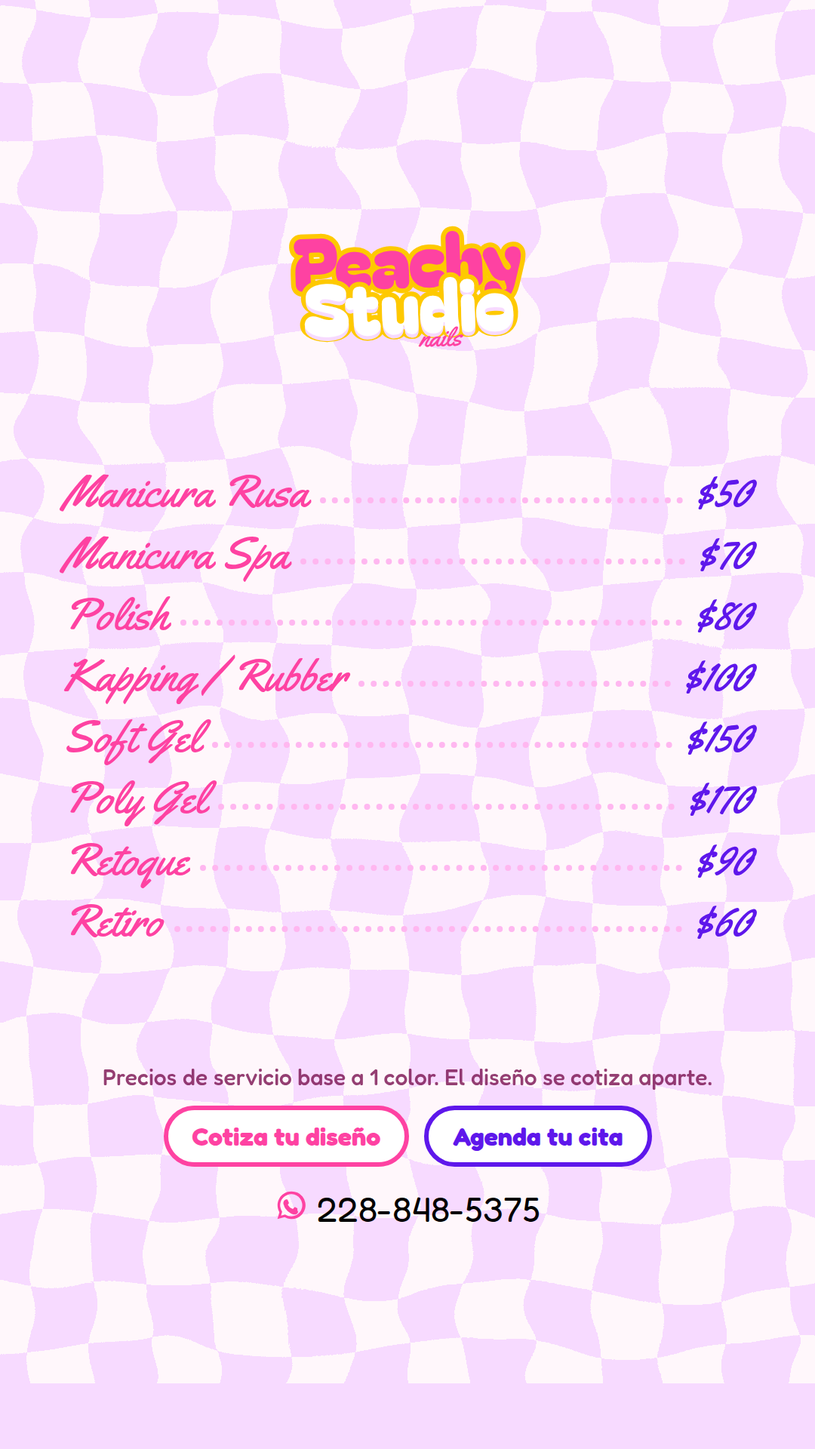
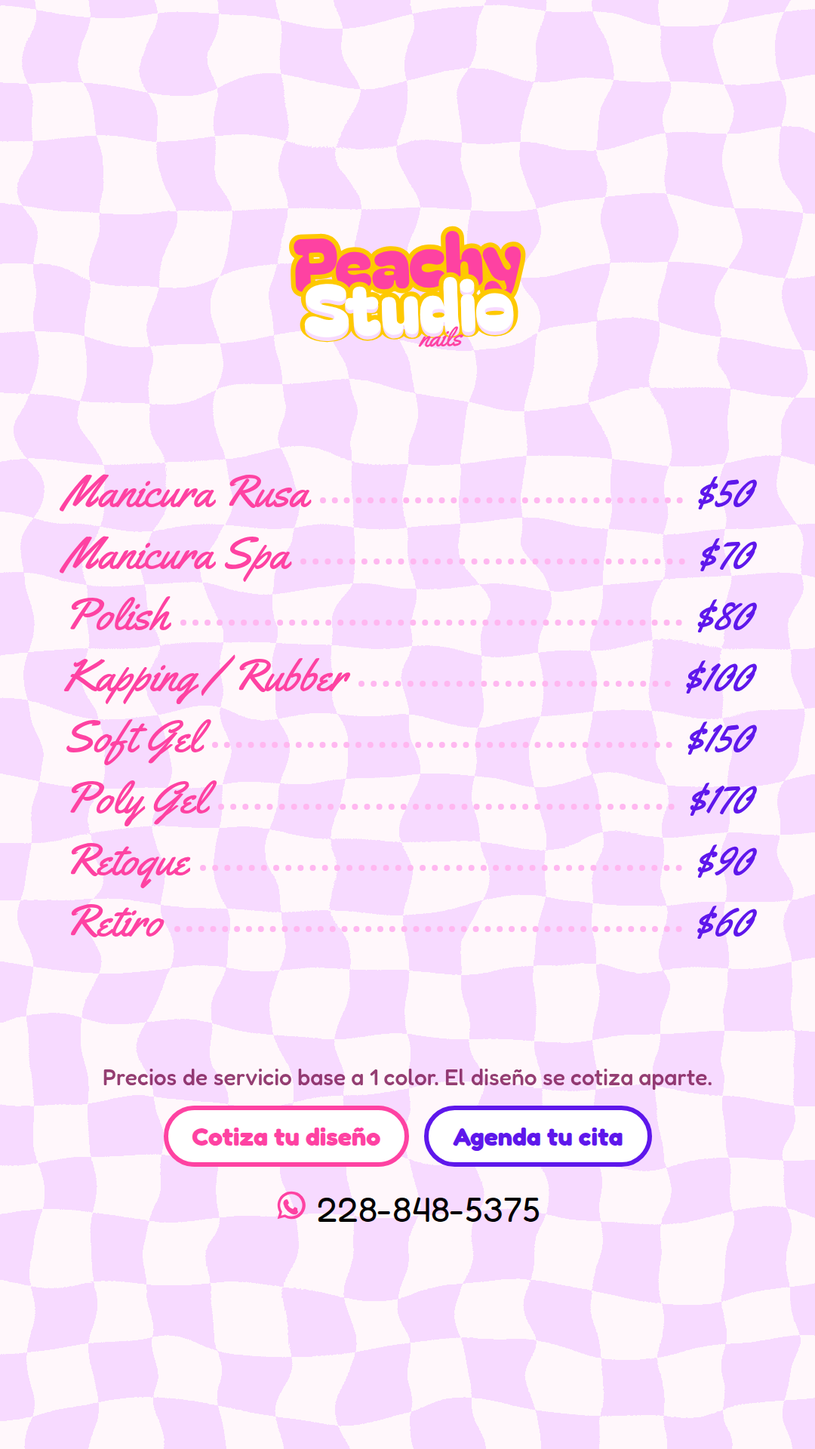
Peachy Studio: corrige recorte del render y agrega recursos para Canva
- Arregla el pipeline de render: Chrome recortaba todo lo que caia bajo el
  viewport cuando html/body llevan overflow:hidden, dejando una franja del color
  de fondo del body al pie de cada pieza (desde y=1833, y desde y=1623 en las de
  fondo solido). Ahora se renderiza con ventana alta y se recorta a 1080x1920.
- Regenera los 21 PNG (15 propuestas + 6 seleccionadas) y las hojas de contacto.
- Agrega peachystudio/canva/: fondos, stickers y logotipo en PNG, mas el HTML
  anotado de 6 paginas para importar las plantillas a Canva.

Claude-Session: https://claude.ai/code/session_01QFHQXyynKXXB2rwCkKffoo

Changed region(s): [[0.5806, 0.9375, 1.0, 1.0], [0.275, 0.9375, 0.5806, 1.0], [0.0, 0.9375, 0.275, 1.0]]

diff --git a/peachystudio/canva/plantillas-peachy-canva.html b/peachystudio/canva/plantillas-peachy-canva.html
@@ -1,0 +1,25 @@
+<!doctype html>
+<html lang="es"><head><meta charset="utf-8">
+<title>Peachy Studio — Plantillas de historia</title>
+<style>*{margin:0;padding:0;box-sizing:border-box}body{background:#e9e0ec}
+[data-document-role="page"]{margin:0 auto 40px}</style></head>
+<body>
+<div data-document-role="page" data-label="S1 · Calendario del mes" style="position:relative;width:1080px;height:1920px;background:#f7daff;overflow:hidden">
+<img src="./assets/bg-checker.png" alt="" style="position:absolute;left:0px;top:0px;width:1080px;height:1920px"><img src="./assets/deco-spark.png" alt="" style="position:absolute;left:900px;top:246px;width:130px;height:141px"><div style="position:absolute;left:268px;top:300px;width:544px;height:88px;background:#ffffff;border-radius:44px;border:8px solid #5e17eb;box-sizing:border-box"></div><p style="position:absolute;left:268px;top:323px;width:544px;margin:0;font-family:'Retropix','Pixelify Sans',monospace;font-size:36px;line-height:1.14;font-weight:700;color:#5e17eb;text-align:center;letter-spacing:.08em">DISPONIBILIDAD DEL MES</p><p style="position:absolute;left:0px;top:408px;width:1080px;margin:0;font-family:'Retro Vintage','Bagel Fat One',cursive;font-size:118px;line-height:1.0;font-weight:400;color:#fe42a2;text-align:center;letter-spacing:-.01em">SEPTIEMBRE</p><p style="position:absolute;left:0px;top:556px;width:1080px;margin:0;font-family:'Retropix','Pixelify Sans',monospace;font-size:34px;line-height:1.0;font-weight:700;color:#5e17eb;text-align:center;letter-spacing:.3em">2026</p><p style="position:absolute;left:86px;top:641px;width:122px;margin:0;font-family:'Retropix','Pixelify Sans',monospace;font-size:34px;line-height:1.14;font-weight:700;color:#5e17eb;text-align:center;letter-spacing:0">L</p><p style="position:absolute;left:217px;top:641px;width:122px;margin:0;font-family:'Retropix','Pixelify Sans',monospace;font-size:34px;line-height:1.14;font-weight:700;color:#5e17eb;text-align:center;letter-spacing:0">M</p><p style="position:absolute;left:348px;top:641px;width:122px;margin:0;font-family:'Retropix','Pixelify Sans',monospace;font-size:34px;line-height:1.14;font-weight:700;color:#5e17eb;text-align:center;letter-spacing:0">M</p><p style="position:absolute;left:479px;top:641px;width:122px;margin:0;font-family:'Retropix','Pixelify Sans',monospace;font-size:34px;line-height:1.14;font-weight:700;color:#5e17eb;text-align:center;letter-spacing:0">J</p><p style="position:absolute;left:610px;top:641px;width:122px;margin:0;font-family:'Retropix','Pixelify Sans',monospace;font-size:34px;line-height:1.14;font-weight:700;color:#5e17eb;text-align:center;letter-spacing:0">V</p><p style="position:absolute;left:741px;top:641px;width:122px;margin:0;font-family:'Retropix','Pixelify Sans',monospace;font-size:34px;line-height:1.14;font-weight:700;color:#5e17eb;text-align:center;letter-spacing:0">S</p><p style="position:absolute;left:872px;top:641px;width:122px;margin:0;font-family:'Retropix','Pixelify Sans',monospace;font-size:34px;line-height:1.14;font-weight:700;color:#5e17eb;text-align:center;letter-spacing:0">D</p><div style="position:absolute;left:217px;top:700px;width:122px;height:112px;background:#ffffff;border-radius:26px;border:6px solid #ffb7f0;box-sizing:border-box"></div><p style="position:absolute;left:217px;top:733px;width:122px;margin:0;font-family:'Poppins','Fredoka',sans-serif;font-size:40px;line-height:1.14;font-weight:700;color:#5e17eb;text-align:center;letter-spacing:0">1</p><div style="position:absolute;left:348px;top:700px;width:122px;height:112px;background:#ffffff;border-radius:26px;border:6px solid #ffb7f0;box-sizing:border-box"></div><p style="position:absolute;left:348px;top:733px;width:122px;margin:0;font-family:'Poppins','Fredoka',sans-serif;font-size:40px;line-height:1.14;font-weight:700;color:#5e17eb;text-align:center;letter-spacing:0">2</p><div style="position:absolute;left:479px;top:700px;width:122px;height:112px;background:#fe42a2;border-radius:26px;border:6px solid #ffffff;box-sizing:border-box"></div><p style="position:absolute;left:479px;top:733px;width:122px;margin:0;font-family:'Poppins','Fredoka',sans-serif;font-size:40px;line-height:1.14;font-weight:700;color:#ffffff;text-align:center;letter-spacing:0">3</p><div style="position:absolute;left:610px;top:700px;width:122px;height:112px;background:#fe42a2;border-radius:26px;border:6px solid #ffffff;box-sizing:border-box"></div><p style="position:absolute;left:610px;top:733px;width:122px;margin:0;font-family:'Poppins','Fredoka',sans-serif;font-size:40px;line-height:1.14;font-weight:700;color:#ffffff;text-align:center;letter-spacing:0">4</p><div style="position:absolute;left:741px;top:700px;width:122px;height:112px;background:#fe42a2;border-radius:26px;border:6px solid #ffffff;box-sizing:border-box"></div><p style="position:absolute;left:741px;top:733px;width:122px;margin:0;font-family:'Poppins','Fredoka',sans-serif;font-size:40px;line-height:1.14;font-weight:700;color:#ffffff;text-align:center;letter-spacing:0">5</p><div style="position:absolute;left:872px;top:700px;width:122px;height:112px;background:#f7daff;border-radius:26px;border:6px solid #ffb7f0;box-sizing:border-box"></div><p style="position:absolute;left:872px;top:733px;width:122px;margin:0;font-family:'Poppins','Fredoka',sans-serif;font-size:40px;line-height:1.14;font-weight:700;color:#b98fc4;text-align:center;letter-spacing:0">6</p><div style="position:absolute;left:86px;top:821px;width:122px;height:112px;background:#ffffff;border-radius:26px;border:6px solid #ffb7f0;box-sizing:border-box"></div><p style="position:absolute;left:86px;top:854px;width:122px;margin:0;font-family:'Poppins','Fredoka',sans-serif;font-size:40px;line-height:1.14;font-weight:700;color:#5e17eb;text-align:center;letter-spacing:0">7</p><div style="position:absolute;left:217px;top:821px;width:122px;height:112px;background:#ffffff;border-radius:26px;border:6px solid #ffb7f0;box-sizing:border-box"></div><p style="position:absolute;left:217px;top:854px;width:122px;margin:0;font-family:'Poppins','Fredoka',sans-serif;font-size:40px;line-height:1.14;font-weight:700;color:#5e17eb;text-align:center;letter-spacing:0">8</p><div style="position:absolute;left:348px;top:821px;width:122px;height:112px;background:#ffffff;border-radius:26px;border:6px solid #ffb7f0;box-sizing:border-box"></div><p style="position:absolute;left:348px;top:854px;width:122px;margin:0;font-family:'Poppins','Fredoka',sans-serif;font-size:40px;line-height:1.14;font-weight:700;color:#5e17eb;text-align:center;letter-spacing:0">9</p><div style="position:absolute;left:479px;top:821px;width:122px;height:112px;background:#fe42a2;border-radius:26px;border:6px solid #ffffff;box-sizing:border-box"></div><p style="position:absolute;left:479px;top:854px;width:122px;margin:0;font-family:'Poppins','Fredoka',sans-serif;font-size:40px;line-height:1.14;font-weight:700;color:#ffffff;text-align:center;letter-spacing:0">10</p><div style="position:absolute;left:610px;top:821px;width:122px;height:112px;background:#fe42a2;border-radius:26px;border:6px solid #ffffff;box-sizing:border-box"></div><p style="position:absolute;left:610px;top:854px;width:122px;margin:0;font-family:'Poppins','Fredoka',sans-serif;font-size:40px;line-height:1.14;font-weight:700;color:#ffffff;text-align:center;letter-spacing:0">11</p><div style="position:absolute;left:741px;top:821px;width:122px;height:112px;background:#fe42a2;border-radius:26px;border:6px solid #ffffff;box-sizing:border-box"></div><p style="position:absolute;left:741px;top:854px;width:122px;margin:0;font-family:'Poppins','Fredoka',sans-serif;font-size:40px;line-height:1.14;font-weight:700;color:#ffffff;text-align:center;letter-spacing:0">12</p><div style="position:absolute;left:872px;top:821px;width:122px;height:112px;background:#f7daff;border-radius:26px;border:6px solid #ffb7f0;box-sizing:border-box"></div><p style="position:absolute;left:872px;top:854px;width:122px;margin:0;font-family:'Poppins','Fredoka',sans-serif;font-size:40px;line-height:1.14;font-weight:700;color:#b98fc4;text-align:center;letter-spacing:0">13</p><div style="position:absolute;left:86px;top:942px;width:122px;height:112px;background:#ffffff;border-radius:26px;border:6px solid #ffb7f0;box-sizing:border-box"></div><p style="position:absolute;left:86px;top:975px;width:122px;margin:0;font-family:'Poppins','Fredoka',sans-serif;font-size:40px;line-height:1.14;font-weight:700;color:#5e17eb;text-align:center;letter-spacing:0">14</p><div style="position:absolute;left:217px;top:942px;width:122px;height:112px;background:#ffffff;border-radius:26px;border:6px solid #ffb7f0;box-sizing:border-box"></div><p style="position:absolute;left:217px;top:975px;width:122px;margin:0;font-family:'Poppins','Fredoka',sans-serif;font-size:40px;line-height:1.14;font-weight:700;color:#5e17eb;text-align:center;letter-spacing:0">15</p><div style="position:absolute;left:348px;top:942px;width:122px;height:112px;background:#ffffff;border-radius:26px;border:6px solid #ffb7f0;box-sizing:border-box"></div><p style="position:absolute;left:348px;top:975px;width:122px;margin:0;font-family:'Poppins','Fredoka',sans-serif;font-size:40px;line-height:1.14;font-weight:700;color:#5e17eb;text-align:center;letter-spacing:0">16</p><div style="position:absolute;left:479px;top:942px;width:122px;height:112px;background:#ffffff;border-radius:26px;border:6px solid #ffb7f0;box-sizing:border-box"></div><p style="position:absolute;left:479px;top:975px;width:122px;margin:0;font-family:'Poppins','Fredoka',sans-serif;font-size:40px;line-height:1.14;font-weight:700;color:#5e17eb;text-align:center;letter-spacing:0">17</p><div style="position:absolute;left:610px;top:942px;width:122px;height:112px;background:#fe42a2;border-radius:26px;border:6px solid #ffffff;box-sizing:border-box"></div><p style="position:absolute;left:610px;top:975px;width:122px;margin:0;font-family:'Poppins','Fredoka',sans-serif;font-size:40px;line-height:1.14;font-weight:700;color:#ffffff;text-align:center;letter-spacing:0">18</p><div style="position:absolute;left:741px;top:942px;width:122px;height:112px;background:#fe42a2;border-radius:26px;border:6px solid #ffffff;box-sizing:border-box"></div><p style="position:absolute;left:741px;top:975px;width:122px;margin:0;font-family:'Poppins','Fredoka',sans-serif;font-size:40px;line-height:1.14;font-weight:700;color:#ffffff;text-align:center;letter-spacing:0">19</p><div style="position:absolute;left:872px;top:942px;width:122px;height:112px;background:#f7daff;border-radius:26px;border:6px solid #ffb7f0;box-sizing:border-box"></div><p style="position:absolute;left:872px;top:975px;width:122px;margin:0;font-family:'Poppins','Fredoka',sans-serif;font-size:40px;line-height:1.14;font-weight:700;color:#b98fc4;text-align:center;letter-spacing:0">20</p><div style="position:absolute;left:86px;top:1063px;width:122px;height:112px;background:#ffffff;border-radius:26px;border:6px solid #ffb7f0;box-sizing:border-box"></div><p style="position:absolute;left:86px;top:1096px;width:122px;margin:0;font-family:'Poppins','Fredoka',sans-serif;font-size:40px;line-height:1.14;font-weight:700;color:#5e17eb;text-align:center;letter-spacing:0">21</p><div style="position:absolute;left:217px;top:1063px;width:122px;height:112px;background:#ffffff;border-radius:26px;border:6px solid #ffb7f0;box-sizing:border-box"></div><p style="position:absolute;left:217px;top:1096px;width:122px;margin:0;font-family:'Poppins','Fredoka',sans-serif;font-size:40px;line-height:1.14;font-weight:700;color:#5e17eb;text-align:center;letter-spacing:0">22</p><div style="position:absolute;left:348px;top:1063px;width:122px;height:112px;background:#ffffff;border-radius:26px;border:6px solid #ffb7f0;box-sizing:border-box"></div><p style="position:absolute;left:348px;top:1096px;width:122px;margin:0;font-family:'Poppins','Fredoka',sans-serif;font-size:40px;line-height:1.14;font-weight:700;color:#5e17eb;text-align:center;letter-spacing:0">23</p><div style="position:absolute;left:479px;top:1063px;width:122px;height:112px;background:#ffffff;border-radius:26px;border:6px solid #ffb7f0;box-sizing:border-box"></div><p style="position:absolute;left:479px;top:1096px;width:122px;margin:0;font-family:'Poppins','Fredoka',sans-serif;font-size:40px;line-height:1.14;font-weight:700;color:#5e17eb;text-align:center;letter-spacing:0">24</p><div style="position:absolute;left:610px;top:1063px;width:122px;height:112px;background:#fe42a2;border-radius:26px;border:6px solid #ffffff;box-sizing:border-box"></div><p style="position:absolute;left:610px;top:1096px;width:122px;margin:0;font-family:'Poppins','Fredoka',sans-serif;font-size:40px;line-height:1.14;font-weight:700;color:#ffffff;text-align:center;letter-spacing:0">25</p><div style="position:absolute;left:741px;top:1063px;width:122px;height:112px;background:#fe42a2;border-radius:26px;border:6px solid #ffffff;box-sizing:border-box"></div><p style="position:absolute;left:741px;top:1096px;width:122px;margin:0;font-family:'Poppins','Fredoka',sans-serif;font-size:40px;line-height:1.14;font-weight:700;color:#ffffff;text-align:center;letter-spacing:0">26</p><div style="position:absolute;left:872px;top:1063px;width:122px;height:112px;background:#f7daff;border-radius:26px;border:6px solid #ffb7f0;box-sizing:border-box"></div><p style="position:absolute;left:872px;top:1096px;width:122px;margin:0;font-family:'Poppins','Fredoka',sans-serif;font-size:40px;line-height:1.14;font-weight:700;color:#b98fc4;text-align:center;letter-spacing:0">27</p><div style="position:absolute;left:86px;top:1184px;width:122px;height:112px;background:#ffffff;border-radius:26px;border:6px solid #ffb7f0;box-sizing:border-box"></div><p style="position:absolute;left:86px;top:1217px;width:122px;margin:0;font-family:'Poppins','Fredoka',sans-serif;font-size:40px;line-height:1.14;font-weight:700;color:#5e17eb;text-align:center;letter-spacing:0">28</p><div style="position:absolute;left:217px;top:1184px;width:122px;height:112px;background:#ffffff;border-radius:26px;border:6px solid #ffb7f0;box-sizing:border-box"></div><p style="position:absolute;left:217px;top:1217px;width:122px;margin:0;font-family:'Poppins','Fredoka',sans-serif;font-size:40px;line-height:1.14;font-weight:700;color:#5e17eb;text-align:center;letter-spacing:0">29</p><div style="position:absolute;left:348px;top:1184px;width:122px;height:112px;background:#ffffff;border-radius:26px;border:6px solid #ffb7f0;box-sizing:border-box"></div><p style="position:absolute;left:348px;top:1217px;width:122px;margin:0;font-family:'Poppins','Fredoka',sans-serif;font-size:40px;line-height:1.14;font-weight:700;color:#5e17eb;text-align:center;letter-spacing:0">30</p><div style="position:absolute;left:268px;top:1352px;width:34px;height:34px;background:#ffffff;border-radius:11px;border:5px solid #ffb7f0;box-sizing:border-box"></div><p style="position:absolute;left:314px;top:1345px;width:150px;margin:0;font-family:'Poppins','Fredoka',sans-serif;font-size:34px;line-height:1.14;font-weight:600;color:#7a1050;text-align:left;letter-spacing:0">Libre</p><div style="position:absolute;left:460px;top:1352px;width:34px;height:34px;background:#fe42a2;border-radius:11px;border:5px solid #ffffff;box-sizing:border-box"></div><p style="position:absolute;left:506px;top:1345px;width:150px;margin:0;font-family:'Poppins','Fredoka',sans-serif;font-size:34px;line-height:1.14;font-weight:600;color:#7a1050;text-align:left;letter-spacing:0">Lleno</p><div style="position:absolute;left:652px;top:1352px;width:34px;height:34px;background:#f7daff;border-radius:11px;border:5px solid #ffb7f0;box-sizing:border-box"></div><p style="position:absolute;left:698px;top:1345px;width:150px;margin:0;font-family:'Poppins','Fredoka',sans-serif;font-size:34px;line-height:1.14;font-weight:600;color:#7a1050;text-align:left;letter-spacing:0">Cerrado</p><img src="./assets/logo-wordmark.png" alt="" style="position:absolute;left:258px;top:1440px;width:300px;height:152px"><p style="position:absolute;left:578px;top:1492px;width:340px;margin:0;font-family:'Poppins','Fredoka',sans-serif;font-size:42px;line-height:1.14;font-weight:700;color:#fe42a2;text-align:left;letter-spacing:0">228-848-5375</p>
+</div>
+<div data-document-role="page" data-label="S2 · Citas disponibles" style="position:relative;width:1080px;height:1920px;background:#fe42a2;overflow:hidden">
+<img src="./assets/deco-smiley.png" alt="" style="position:absolute;left:62px;top:250px;width:132px;height:132px"><div style="position:absolute;left:288px;top:300px;width:504px;height:84px;background:#fec900;border-radius:42px;border:7px solid #ffffff;box-sizing:border-box"></div><p style="position:absolute;left:288px;top:322px;width:504px;margin:0;font-family:'Retropix','Pixelify Sans',monospace;font-size:34px;line-height:1.14;font-weight:700;color:#5e17eb;text-align:center;letter-spacing:.07em">HOY · MIÉRCOLES 26</p><p style="position:absolute;left:0px;top:408px;width:1080px;margin:0;font-family:'Retro Vintage','Bagel Fat One',cursive;font-size:112px;line-height:1.0;font-weight:400;color:#ffffff;text-align:center;letter-spacing:0">HORARIOS</p><p style="position:absolute;left:0px;top:520px;width:1080px;margin:0;font-family:'Retro Vintage','Bagel Fat One',cursive;font-size:112px;line-height:1.0;font-weight:400;color:#ffffff;text-align:center;letter-spacing:0">LIBRES</p><div style="position:absolute;left:84px;top:668px;width:912px;height:96px;background:#ffffff;border-radius:48px;border:7px solid #ffffff;box-sizing:border-box"></div><p style="position:absolute;left:128px;top:690px;width:400px;margin:0;font-family:'Poppins','Fredoka',sans-serif;font-size:46px;line-height:1.14;font-weight:700;color:#5e17eb;text-align:left;letter-spacing:0">10:00 am</p><p style="position:absolute;left:552px;top:696px;width:400px;margin:0;font-family:'Retropix','Pixelify Sans',monospace;font-size:34px;line-height:1.14;font-weight:700;color:#fe42a2;text-align:right;letter-spacing:.06em">LIBRE</p><div style="position:absolute;left:84px;top:778px;width:912px;height:96px;background:#ff7ec4;border-radius:48px;border:7px solid #ffffff;box-sizing:border-box"></div><p style="position:absolute;left:128px;top:800px;width:400px;margin:0;font-family:'Poppins','Fredoka',sans-serif;font-size:46px;line-height:1.14;font-weight:700;color:#ffffff;text-align:left;letter-spacing:0">11:30 am</p><p style="position:absolute;left:552px;top:806px;width:400px;margin:0;font-family:'Retropix','Pixelify Sans',monospace;font-size:34px;line-height:1.14;font-weight:700;color:#ffffff;text-align:right;letter-spacing:.06em">APARTADA</p><div style="position:absolute;left:84px;top:888px;width:912px;height:96px;background:#ffffff;border-radius:48px;border:7px solid #ffffff;box-sizing:border-box"></div><p style="position:absolute;left:128px;top:910px;width:400px;margin:0;font-family:'Poppins','Fredoka',sans-serif;font-size:46px;line-height:1.14;font-weight:700;color:#5e17eb;text-align:left;letter-spacing:0">1:00 pm</p><p style="position:absolute;left:552px;top:916px;width:400px;margin:0;font-family:'Retropix','Pixelify Sans',monospace;font-size:34px;line-height:1.14;font-weight:700;color:#fe42a2;text-align:right;letter-spacing:.06em">LIBRE</p><div style="position:absolute;left:84px;top:998px;width:912px;height:96px;background:#ffffff;border-radius:48px;border:7px solid #ffffff;box-sizing:border-box"></div><p style="position:absolute;left:128px;top:1020px;width:400px;margin:0;font-family:'Poppins','Fredoka',sans-serif;font-size:46px;line-height:1.14;font-weight:700;color:#5e17eb;text-align:left;letter-spacing:0">2:30 pm</p><p style="position:absolute;left:552px;top:1026px;width:400px;margin:0;font-family:'Retropix','Pixelify Sans',monospace;font-size:34px;line-height:1.14;font-weight:700;color:#fe42a2;text-align:right;letter-spacing:.06em">LIBRE</p><div style="position:absolute;left:84px;top:1108px;width:912px;height:96px;background:#ff7ec4;border-radius:48px;border:7px solid #ffffff;box-sizing:border-box"></div><p style="position:absolute;left:128px;top:1130px;width:400px;margin:0;font-family:'Poppins','Fredoka',sans-serif;font-size:46px;line-height:1.14;font-weight:700;color:#ffffff;text-align:left;letter-spacing:0">4:00 pm</p><p style="position:absolute;left:552px;top:1136px;width:400px;margin:0;font-family:'Retropix','Pixelify Sans',monospace;font-size:34px;line-height:1.14;font-weight:700;color:#ffffff;text-align:right;letter-spacing:.06em">APARTADA</p><div style="position:absolute;left:84px;top:1218px;width:912px;height:96px;background:#fec900;border-radius:48px;border:7px solid #ffffff;box-sizing:border-box"></div><p style="position:absolute;left:128px;top:1240px;width:400px;margin:0;font-family:'Poppins','Fredoka',sans-serif;font-size:46px;line-height:1.14;font-weight:700;color:#5e17eb;text-align:left;letter-spacing:0">5:30 pm</p><p style="position:absolute;left:552px;top:1246px;width:400px;margin:0;font-family:'Retropix','Pixelify Sans',monospace;font-size:34px;line-height:1.14;font-weight:700;color:#5e17eb;text-align:right;letter-spacing:.06em">ÚLTIMA</p><div style="position:absolute;left:240px;top:1352px;width:600px;height:110px;background:#fec900;border-radius:55px;border:8px solid #ffffff;box-sizing:border-box"></div><p style="position:absolute;left:240px;top:1384px;width:600px;margin:0;font-family:'Poppins','Fredoka',sans-serif;font-size:40px;line-height:1.14;font-weight:700;color:#5e17eb;text-align:center;letter-spacing:0">Aparta el tuyo por WhatsApp</p><img src="./assets/logo-wordmark.png" alt="" style="position:absolute;left:268px;top:1494px;width:260px;height:132px"><p style="position:absolute;left:556px;top:1540px;width:360px;margin:0;font-family:'Poppins','Fredoka',sans-serif;font-size:42px;line-height:1.14;font-weight:700;color:#ffffff;text-align:left;letter-spacing:0">228-848-5375</p>
+</div>
+<div data-document-role="page" data-label="S3 · Lista de precios" style="position:relative;width:1080px;height:1920px;background:#f7daff;overflow:hidden">
+<img src="./assets/bg-checker-wave.png" alt="" style="position:absolute;left:0px;top:0px;width:1080px;height:1920px"><img src="./assets/deco-daisy.png" alt="" style="position:absolute;left:884px;top:248px;width:132px;height:132px"><img src="./assets/logo-wordmark.png" alt="" style="position:absolute;left:330px;top:296px;width:420px;height:213px"><div style="position:absolute;left:300px;top:528px;width:480px;height:80px;background:#ffffff;border-radius:40px;border:7px solid #5e17eb;box-sizing:border-box"></div><p style="position:absolute;left:300px;top:548px;width:480px;margin:0;font-family:'Retropix','Pixelify Sans',monospace;font-size:34px;line-height:1.14;font-weight:700;color:#5e17eb;text-align:center;letter-spacing:.07em">LISTA DE PRECIOS</p><p style="position:absolute;left:84px;top:656px;width:560px;margin:0;font-family:'Adam Script','Yellowtail',cursive;font-size:58px;line-height:1.0;font-weight:400;color:#fe42a2;text-align:left;letter-spacing:0">Manicura Rusa</p><div style="position:absolute;left:84px;top:732px;width:832px;height:6px;background:#ffb7f0;border-radius:3px;box-sizing:border-box"></div><p style="position:absolute;left:756px;top:656px;width:240px;margin:0;font-family:'Adam Script','Yellowtail',cursive;font-size:58px;line-height:1.0;font-weight:400;color:#5e17eb;text-align:right;letter-spacing:0">$50</p><p style="position:absolute;left:84px;top:740px;width:560px;margin:0;font-family:'Adam Script','Yellowtail',cursive;font-size:58px;line-height:1.0;font-weight:400;color:#fe42a2;text-align:left;letter-spacing:0">Manicura Spa</p><div style="position:absolute;left:84px;top:816px;width:832px;height:6px;background:#ffb7f0;border-radius:3px;box-sizing:border-box"></div><p style="position:absolute;left:756px;top:740px;width:240px;margin:0;font-family:'Adam Script','Yellowtail',cursive;font-size:58px;line-height:1.0;font-weight:400;color:#5e17eb;text-align:right;letter-spacing:0">$70</p><p style="position:absolute;left:84px;top:824px;width:560px;margin:0;font-family:'Adam Script','Yellowtail',cursive;font-size:58px;line-height:1.0;font-weight:400;color:#fe42a2;text-align:left;letter-spacing:0">Polish</p><div style="position:absolute;left:84px;top:900px;width:832px;height:6px;background:#ffb7f0;border-radius:3px;box-sizing:border-box"></div><p style="position:absolute;left:756px;top:824px;width:240px;margin:0;font-family:'Adam Script','Yellowtail',cursive;font-size:58px;line-height:1.0;font-weight:400;color:#5e17eb;text-align:right;letter-spacing:0">$80</p><p style="position:absolute;left:84px;top:908px;width:560px;margin:0;font-family:'Adam Script','Yellowtail',cursive;font-size:58px;line-height:1.0;font-weight:400;color:#fe42a2;text-align:left;letter-spacing:0">Kapping / Rubber</p><div style="position:absolute;left:84px;top:984px;width:832px;height:6px;background:#ffb7f0;border-radius:3px;box-sizing:border-box"></div><p style="position:absolute;left:756px;top:908px;width:240px;margin:0;font-family:'Adam Script','Yellowtail',cursive;font-size:58px;line-height:1.0;font-weight:400;color:#5e17eb;text-align:right;letter-spacing:0">$100</p><p style="position:absolute;left:84px;top:992px;width:560px;margin:0;font-family:'Adam Script','Yellowtail',cursive;font-size:58px;line-height:1.0;font-weight:400;color:#fe42a2;text-align:left;letter-spacing:0">Soft Gel</p><div style="position:absolute;left:84px;top:1068px;width:832px;height:6px;background:#ffb7f0;border-radius:3px;box-sizing:border-box"></div><p style="position:absolute;left:756px;top:992px;width:240px;margin:0;font-family:'Adam Script','Yellowtail',cursive;font-size:58px;line-height:1.0;font-weight:400;color:#5e17eb;text-align:right;letter-spacing:0">$150</p><p style="position:absolute;left:84px;top:1076px;width:560px;margin:0;font-family:'Adam Script','Yellowtail',cursive;font-size:58px;line-height:1.0;font-weight:400;color:#fe42a2;text-align:left;letter-spacing:0">Poly Gel</p><div style="position:absolute;left:84px;top:1152px;width:832px;height:6px;background:#ffb7f0;border-radius:3px;box-sizing:border-box"></div><p style="position:absolute;left:756px;top:1076px;width:240px;margin:0;font-family:'Adam Script','Yellowtail',cursive;font-size:58px;line-height:1.0;font-weight:400;color:#5e17eb;text-align:right;letter-spacing:0">$170</p><p style="position:absolute;left:84px;top:1160px;width:560px;margin:0;font-family:'Adam Script','Yellowtail',cursive;font-size:58px;line-height:1.0;font-weight:400;color:#fe42a2;text-align:left;letter-spacing:0">Retoque</p><div style="position:absolute;left:84px;top:1236px;width:832px;height:6px;background:#ffb7f0;border-radius:3px;box-sizing:border-box"></div><p style="position:absolute;left:756px;top:1160px;width:240px;margin:0;font-family:'Adam Script','Yellowtail',cursive;font-size:58px;line-height:1.0;font-weight:400;color:#5e17eb;text-align:right;letter-spacing:0">$90</p><p style="position:absolute;left:84px;top:1244px;width:560px;margin:0;font-family:'Adam Script','Yellowtail',cursive;font-size:58px;line-height:1.0;font-weight:400;color:#fe42a2;text-align:left;letter-spacing:0">Retiro</p><div style="position:absolute;left:84px;top:1320px;width:832px;height:6px;background:#ffb7f0;border-radius:3px;box-sizing:border-box"></div><p style="position:absolute;left:756px;top:1244px;width:240px;margin:0;font-family:'Adam Script','Yellowtail',cursive;font-size:58px;line-height:1.0;font-weight:400;color:#5e17eb;text-align:right;letter-spacing:0">$60</p><p style="position:absolute;left:84px;top:1352px;width:912px;margin:0;font-family:'Poppins','Fredoka',sans-serif;font-size:30px;line-height:1.14;font-weight:500;color:#7a1050;text-align:center;letter-spacing:0">Servicio base a 1 color. El diseño se cotiza aparte.</p><div style="position:absolute;left:196px;top:1412px;width:320px;height:76px;background:#ffffff;border-radius:38px;border:6px solid #fe42a2;box-sizing:border-box"></div><p style="position:absolute;left:196px;top:1430px;width:320px;margin:0;font-family:'Poppins','Fredoka',sans-serif;font-size:34px;line-height:1.14;font-weight:700;color:#fe42a2;text-align:center;letter-spacing:0">Cotiza tu diseño</p><div style="position:absolute;left:564px;top:1412px;width:320px;height:76px;background:#ffffff;border-radius:38px;border:6px solid #5e17eb;box-sizing:border-box"></div><p style="position:absolute;left:564px;top:1430px;width:320px;margin:0;font-family:'Poppins','Fredoka',sans-serif;font-size:34px;line-height:1.14;font-weight:700;color:#5e17eb;text-align:center;letter-spacing:0">Agenda tu cita</p><p style="position:absolute;left:0px;top:1520px;width:1080px;margin:0;font-family:'Poppins','Fredoka',sans-serif;font-size:44px;line-height:1.14;font-weight:700;color:#fe42a2;text-align:center;letter-spacing:0">WhatsApp 228-848-5375</p>
+</div>
+<div data-document-role="page" data-label="S4 · Información del studio" style="position:relative;width:1080px;height:1920px;background:#f7daff;overflow:hidden">
+<img src="./assets/bg-checker.png" alt="" style="position:absolute;left:0px;top:0px;width:1080px;height:1920px"><img src="./assets/deco-heart.png" alt="" style="position:absolute;left:64px;top:252px;width:124px;height:106px"><img src="./assets/logo-wordmark.png" alt="" style="position:absolute;left:340px;top:290px;width:400px;height:203px"><div style="position:absolute;left:268px;top:506px;width:544px;height:78px;background:#ffffff;border-radius:39px;border:7px solid #5e17eb;box-sizing:border-box"></div><p style="position:absolute;left:268px;top:527px;width:544px;margin:0;font-family:'Retropix','Pixelify Sans',monospace;font-size:30px;line-height:1.14;font-weight:700;color:#5e17eb;text-align:center;letter-spacing:.06em">TODO LO QUE NECESITAS SABER</p><div style="position:absolute;left:84px;top:626px;width:912px;height:720px;background:#ffffff;border-radius:60px;border:10px solid #fe42a2;box-sizing:border-box"></div><p style="position:absolute;left:136px;top:676px;width:820px;margin:0;font-family:'Retropix','Pixelify Sans',monospace;font-size:32px;line-height:1.0;font-weight:700;color:#fe42a2;text-align:left;letter-spacing:.07em">HORARIO</p><p style="position:absolute;left:136px;top:722px;width:820px;margin:0;font-family:'Poppins','Fredoka',sans-serif;font-size:38px;line-height:1.26;font-weight:500;color:#7a1050;text-align:left;letter-spacing:0">Lunes a sábado · 10:00 am – 7:00 pm<br>Domingo cerrado</p><p style="position:absolute;left:136px;top:852px;width:820px;margin:0;font-family:'Retropix','Pixelify Sans',monospace;font-size:32px;line-height:1.0;font-weight:700;color:#fe42a2;text-align:left;letter-spacing:.07em">DÓNDE ESTAMOS</p><p style="position:absolute;left:136px;top:898px;width:820px;margin:0;font-family:'Poppins','Fredoka',sans-serif;font-size:38px;line-height:1.26;font-weight:500;color:#7a1050;text-align:left;letter-spacing:0">Av. Américas casi esquina Miguel Alemán<br>Xalapa, Veracruz</p><p style="position:absolute;left:136px;top:1028px;width:820px;margin:0;font-family:'Retropix','Pixelify Sans',monospace;font-size:32px;line-height:1.0;font-weight:700;color:#fe42a2;text-align:left;letter-spacing:.07em">FORMAS DE PAGO</p><p style="position:absolute;left:136px;top:1074px;width:820px;margin:0;font-family:'Poppins','Fredoka',sans-serif;font-size:38px;line-height:1.26;font-weight:500;color:#7a1050;text-align:left;letter-spacing:0">Efectivo · Transferencia · Tarjeta</p><p style="position:absolute;left:136px;top:1168px;width:820px;margin:0;font-family:'Retropix','Pixelify Sans',monospace;font-size:32px;line-height:1.0;font-weight:700;color:#fe42a2;text-align:left;letter-spacing:.07em">PARA APARTAR</p><p style="position:absolute;left:136px;top:1214px;width:820px;margin:0;font-family:'Poppins','Fredoka',sans-serif;font-size:38px;line-height:1.26;font-weight:500;color:#7a1050;text-align:left;letter-spacing:0">Anticipo $50 · Tolerancia 15 min<br>Cancelaciones con 24 h de aviso</p><div style="position:absolute;left:200px;top:1390px;width:680px;height:108px;background:#fe42a2;border-radius:54px;border:8px solid #ffffff;box-sizing:border-box"></div><p style="position:absolute;left:200px;top:1418px;width:680px;margin:0;font-family:'Poppins','Fredoka',sans-serif;font-size:44px;line-height:1.14;font-weight:700;color:#ffffff;text-align:center;letter-spacing:0">Agenda por WhatsApp</p><p style="position:absolute;left:0px;top:1534px;width:1080px;margin:0;font-family:'Poppins','Fredoka',sans-serif;font-size:32px;line-height:1.14;font-weight:500;color:#7a1050;text-align:center;letter-spacing:0">228-848-5375 · @peachystudio.nails</p>
+</div>
+<div data-document-role="page" data-label="S5 · Diseño del día" style="position:relative;width:1080px;height:1920px;background:#f7daff;overflow:hidden">
+<img src="./assets/bg-checker.png" alt="" style="position:absolute;left:0px;top:0px;width:1080px;height:1920px"><img src="./assets/deco-smiley.png" alt="" style="position:absolute;left:890px;top:248px;width:128px;height:128px"><img src="./assets/deco-heart.png" alt="" style="position:absolute;left:56px;top:1180px;width:118px;height:101px"><div style="position:absolute;left:340px;top:300px;width:400px;height:80px;background:#ffffff;border-radius:40px;border:7px solid #5e17eb;box-sizing:border-box"></div><p style="position:absolute;left:340px;top:320px;width:400px;margin:0;font-family:'Retropix','Pixelify Sans',monospace;font-size:34px;line-height:1.14;font-weight:700;color:#5e17eb;text-align:center;letter-spacing:.06em">DISEÑO DEL DÍA</p><p style="position:absolute;left:0px;top:404px;width:1080px;margin:0;font-family:'Adam Script','Yellowtail',cursive;font-size:128px;line-height:1.0;font-weight:400;color:#fe42a2;text-align:center;letter-spacing:0">Soft Gel</p><div style="position:absolute;left:140px;top:584px;width:800px;height:800px;background:#fff7fb;border-radius:380px;border:12px solid #fe42a2;box-sizing:border-box"></div><p style="position:absolute;left:140px;top:930px;width:800px;margin:0;font-family:'Retropix','Pixelify Sans',monospace;font-size:44px;line-height:1.14;font-weight:700;color:#fe42a2;text-align:center;letter-spacing:0">FOTO DEL DISEÑO</p><p style="position:absolute;left:140px;top:996px;width:800px;margin:0;font-family:'Poppins','Fredoka',sans-serif;font-size:30px;line-height:1.14;font-weight:500;color:#7a1050;text-align:center;letter-spacing:0">reemplaza este marco con la foto</p><div style="position:absolute;left:150px;top:1436px;width:540px;height:88px;background:#ffffff;border-radius:44px;border:8px solid #fe42a2;box-sizing:border-box"></div><p style="position:absolute;left:150px;top:1456px;width:540px;margin:0;font-family:'Poppins','Fredoka',sans-serif;font-size:42px;line-height:1.14;font-weight:700;color:#fe42a2;text-align:center;letter-spacing:0">Almendra · 2 colores</p><div style="position:absolute;left:722px;top:1436px;width:208px;height:88px;background:#fe42a2;border-radius:44px;border:8px solid #ffffff;box-sizing:border-box"></div><p style="position:absolute;left:722px;top:1456px;width:208px;margin:0;font-family:'Poppins','Fredoka',sans-serif;font-size:42px;line-height:1.14;font-weight:700;color:#ffffff;text-align:center;letter-spacing:0">$150</p><img src="./assets/logo-wordmark.png" alt="" style="position:absolute;left:300px;top:1552px;width:240px;height:121px"><p style="position:absolute;left:566px;top:1592px;width:360px;margin:0;font-family:'Poppins','Fredoka',sans-serif;font-size:38px;line-height:1.14;font-weight:700;color:#fe42a2;text-align:left;letter-spacing:0">228-848-5375</p>
+</div>
+<div data-document-role="page" data-label="S6 · Aviso o promoción" style="position:relative;width:1080px;height:1920px;background:#ffb7f0;overflow:hidden">
+<img src="./assets/bg-swirl-rosa.png" alt="" style="position:absolute;left:0px;top:0px;width:1080px;height:1920px"><img src="./assets/deco-daisy.png" alt="" style="position:absolute;left:876px;top:252px;width:136px;height:136px"><img src="./assets/deco-spark.png" alt="" style="position:absolute;left:58px;top:1216px;width:110px;height:120px"><div style="position:absolute;left:268px;top:318px;width:544px;height:80px;background:#ffffff;border-radius:40px;border:7px solid #5e17eb;box-sizing:border-box"></div><p style="position:absolute;left:268px;top:338px;width:544px;margin:0;font-family:'Retropix','Pixelify Sans',monospace;font-size:34px;line-height:1.14;font-weight:700;color:#5e17eb;text-align:center;letter-spacing:.06em">PROMO DE SEPTIEMBRE</p><p style="position:absolute;left:0px;top:432px;width:1080px;margin:0;font-family:'Adam Script','Yellowtail',cursive;font-size:122px;line-height:1.0;font-weight:400;color:#fe42a2;text-align:center;letter-spacing:0">Soft Gel</p><p style="position:absolute;left:130px;top:606px;width:280px;margin:0;font-family:'Adam Script','Yellowtail',cursive;font-size:86px;line-height:1.0;font-weight:400;color:#5e17eb;text-align:center;letter-spacing:0">$150</p><div style="position:absolute;left:186px;top:668px;width:168px;height:9px;background:#5e17eb;border-radius:5px;box-sizing:border-box"></div><p style="position:absolute;left:400px;top:580px;width:560px;margin:0;font-family:'Retro Vintage','Bagel Fat One',cursive;font-size:156px;line-height:1.0;font-weight:400;color:#fe42a2;text-align:center;letter-spacing:0">$120</p><p style="position:absolute;left:84px;top:808px;width:912px;margin:0;font-family:'Poppins','Fredoka',sans-serif;font-size:52px;line-height:1.28;font-weight:500;color:#7a1050;text-align:center;letter-spacing:0">Cualquier diseño a dos colores,<br>sin costo extra.</p><div style="position:absolute;left:196px;top:960px;width:340px;height:76px;background:#ffffff;border-radius:38px;border:6px solid #5e17eb;box-sizing:border-box"></div><p style="position:absolute;left:196px;top:978px;width:340px;margin:0;font-family:'Poppins','Fredoka',sans-serif;font-size:34px;line-height:1.14;font-weight:700;color:#5e17eb;text-align:center;letter-spacing:0">Válido hasta el 30</p><div style="position:absolute;left:568px;top:960px;width:316px;height:76px;background:#ffffff;border-radius:38px;border:6px solid #fe42a2;box-sizing:border-box"></div><p style="position:absolute;left:568px;top:978px;width:316px;margin:0;font-family:'Poppins','Fredoka',sans-serif;font-size:34px;line-height:1.14;font-weight:700;color:#fe42a2;text-align:center;letter-spacing:0">Cupo limitado</p><div style="position:absolute;left:240px;top:1110px;width:600px;height:110px;background:#fe42a2;border-radius:55px;border:8px solid #ffffff;box-sizing:border-box"></div><p style="position:absolute;left:240px;top:1138px;width:600px;margin:0;font-family:'Poppins','Fredoka',sans-serif;font-size:46px;line-height:1.14;font-weight:700;color:#ffffff;text-align:center;letter-spacing:0">Lo quiero</p><img src="./assets/logo-wordmark.png" alt="" style="position:absolute;left:300px;top:1300px;width:240px;height:121px"><p style="position:absolute;left:566px;top:1340px;width:360px;margin:0;font-family:'Poppins','Fredoka',sans-serif;font-size:38px;line-height:1.14;font-weight:700;color:#fe42a2;text-align:left;letter-spacing:0">228-848-5375</p>
+</div>
+</body></html>
